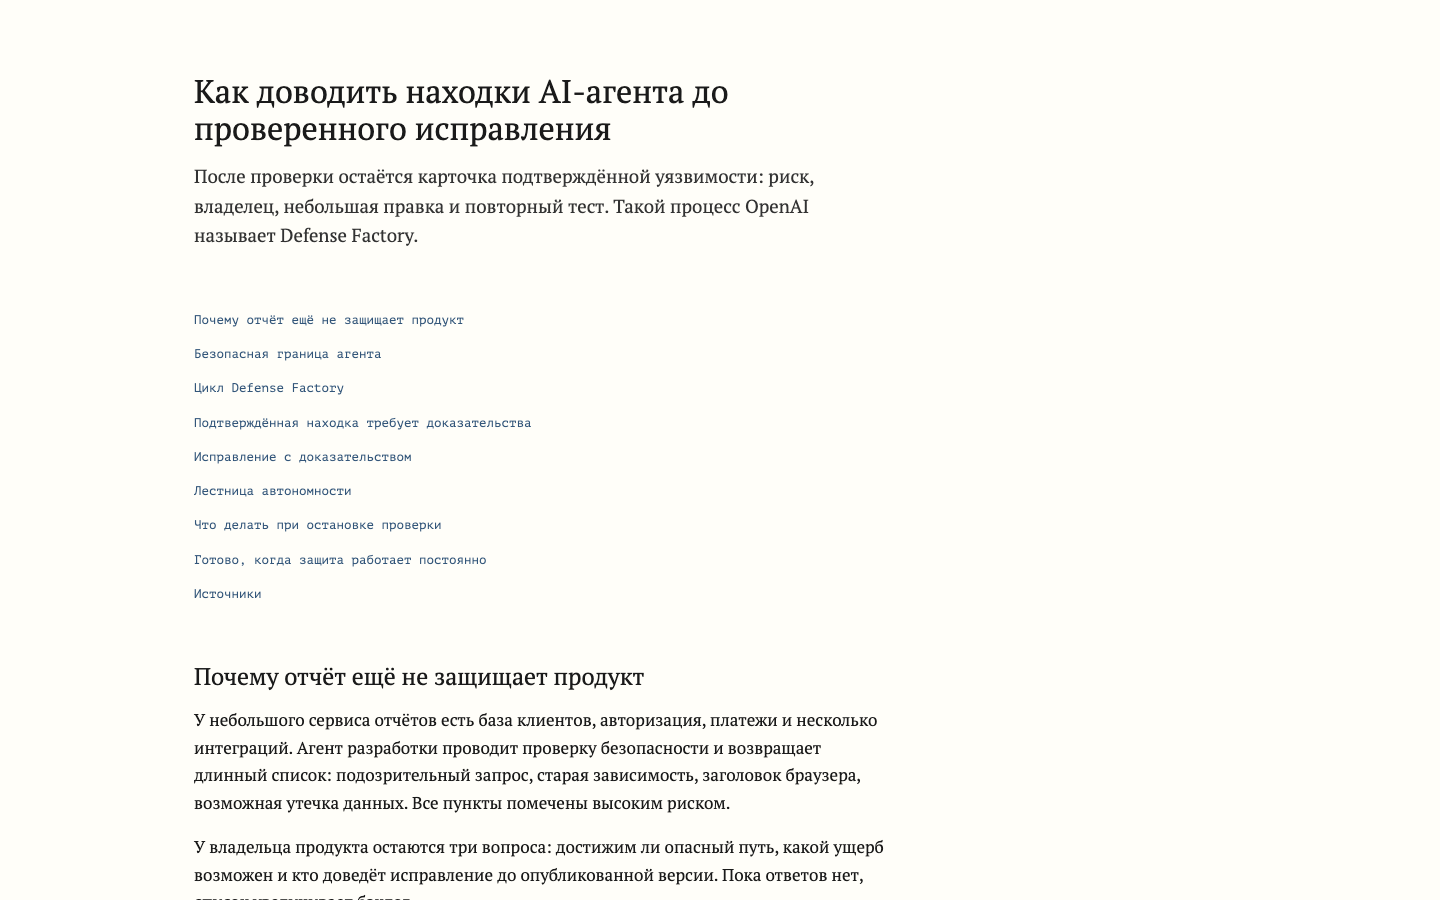
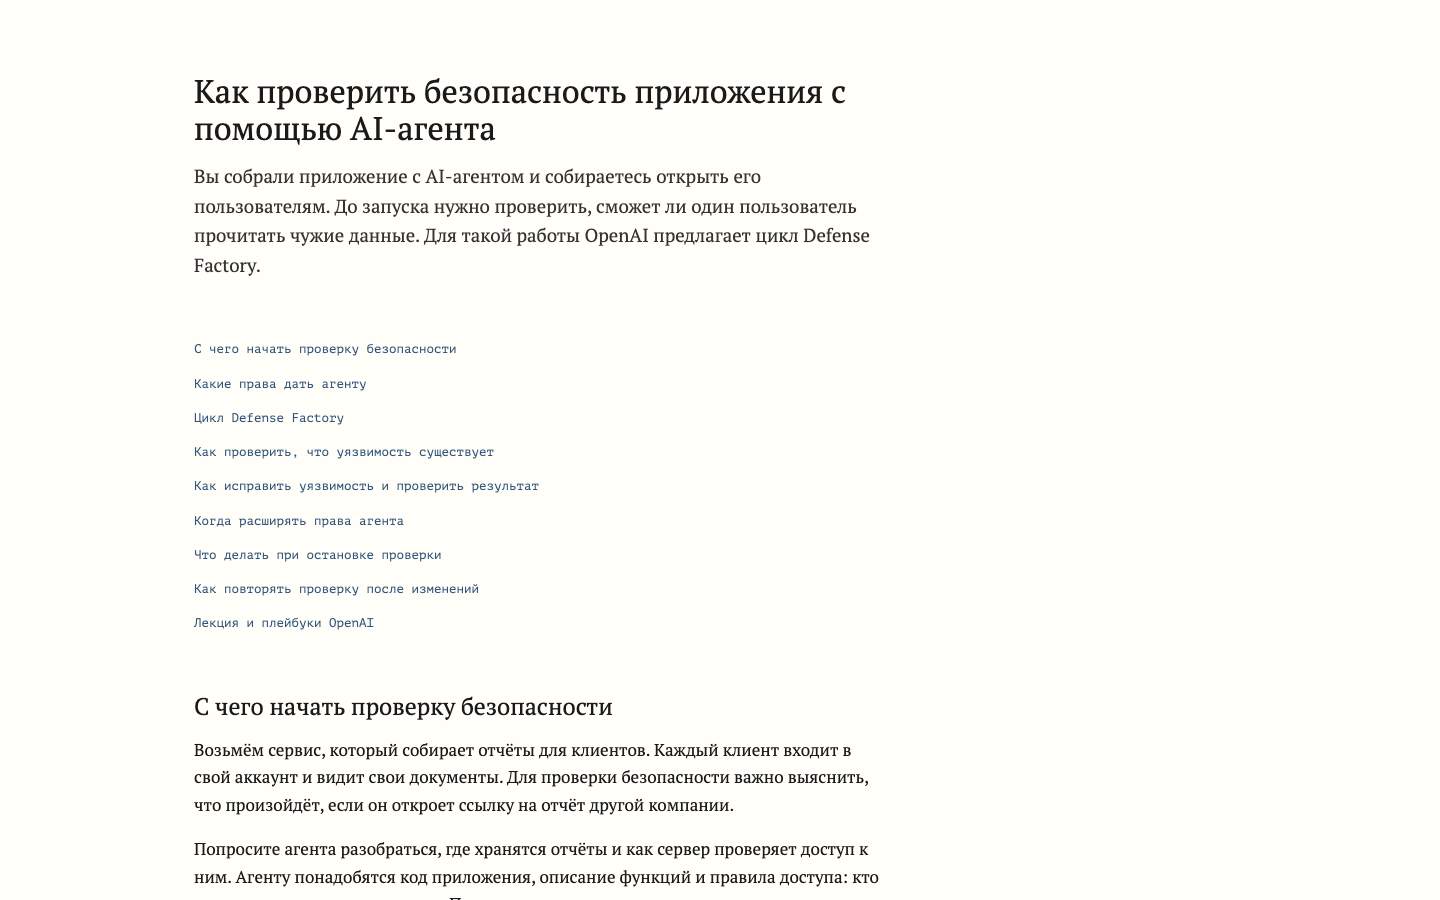
content: explain Defense Factory through an app security check

diff --git a/docs/STATUS.md b/docs/STATUS.md
@@ -255,6 +255,7 @@ curl -s http://127.0.0.1:1313/blog/agent-teams-opus-4-6/ > /dev/null
 | 2026-09-03 | M20 GPT-6 Astra release article | `content/blog/gpt-6-astra.md`, `static/images/blog/gpt-6-astra*`, `static/design-review/gpt-6-astra-*`, `layouts/blog/paper.html`, `layouts/_default/baseof.html`, `README.md`, `docs/PLAN.md`, `docs/STATUS.md`; issue `#171` | Grok CLI X research; five deaify critics; fact, persona, and editorial gates; style and structural gates; `hugo --gc --minify`; rendered metadata and media assertions; full SEO helper stack; deterministic 1200 px overlap check; Playwright browser review at 840×480 | pass locally: article contains 12 attributed source images, official OpenAI video, a responsive local Astra game video, direct Day One verdict, FAQ schema, trailing-slash canonical, and corrected media/tag layout rules | publication and post-deploy evidence are tracked in issue `#171` and PR `#172` |
 | 2026-09-03 | M20 Astra access-angle correction | `content/blog/gpt-6-astra.md`, `README.md`, `docs/PLAN.md`, `docs/STATUS.md`; issue `#171`; PR `#173`; merge `3e3f2fde` | five title critics; style and structural gates; Hugo build; full SEO helper stack; Playwright local and production review at 840×480 | pass: production title states the Day One access question; previous migration framing is absent; Telegram queue item `171741aa` is scheduled for 2026-09-04 08:00 MSK | monitor production and queued announcement |
 | 2026-09-05 | M21 Defense Factory standalone guide rendering | `content/blog/ai-agent-defense-factory-guide.html`, `docs/blog/ai-agent-defense-factory-guide/preview-*.png`, `docs/PLAN.md`, `docs/STATUS.md` | `hugo --gc --minify`; Playwright direct-file and Hugo review at 1440×900; prompt copy interaction; `git diff --check` | pass: direct `file://` view hides frontmatter, uses the 740 px paper layout, and preserves the A4 prompt sidecar; mobile review skipped by founder request | open visual-review PR |
+| 2026-09-05 | M21 Defense Factory reader-first copy | `content/blog/ai-agent-defense-factory-guide.html`, companion source notes and desktop previews; PR `#176` | editorial audit; Playwright direct-file and Hugo review at 1440×900; title and TOC consistency; source-link placement; Hugo build; `git diff --check` | pass: opening addresses an app security check before launch, the two-account example explains the workflow, lecture timestamps are absent, six source links are in the final section; mobile review skipped by founder request | update PR `#176` for author review |
 
 ## Blocker log
 

diff --git a/docs/blog/ai-agent-defense-factory-guide/README.md b/docs/blog/ai-agent-defense-factory-guide/README.md
@@ -4,23 +4,23 @@ Companion source record for `content/blog/ai-agent-defense-factory-guide.html`.
 
 ## Prompt 1
 
-*Источник: авторская операционализация для этого гайда по Defense Factory и Codex Security; в потоках пока не обкатан.*
+*Источник: составлен по материалам OpenAI; в потоках пока не обкатан.*
 
 ## Prompt 2
 
-*Источник: авторская операционализация для этого гайда по Defense Factory и Codex Security; в потоках пока не обкатан.*
+*Источник: составлен по материалам OpenAI; в потоках пока не обкатан.*
 
 ## Prompt 3
 
-*Источник: авторская операционализация для этого гайда по Defense Factory и Codex Security; в потоках пока не обкатан.*
+*Источник: составлен по материалам OpenAI; в потоках пока не обкатан.*
 
 ## Prompt 4
 
-*Источник: авторская операционализация для этого гайда по Defense Factory и Codex Security; в потоках пока не обкатан.*
+*Источник: составлен по материалам OpenAI; в потоках пока не обкатан.*
 
 ## Prompt 5
 
-*Источник: авторская операционализация для этого гайда по Defense Factory и Codex Security; в потоках пока не обкатан.*
+*Источник: составлен по материалам OpenAI; в потоках пока не обкатан.*
 
 ## Primary sources
 

diff --git a/docs/PLAN.md b/docs/PLAN.md
@@ -1099,9 +1099,12 @@ Make the Defense Factory guide open directly from its HTML source with the same 
 - [x] Hide Hugo frontmatter during direct `file://` viewing.
 - [x] Preserve the A4 prompt sidecar and copy interaction in direct viewing.
 - [x] Verify direct-file and Hugo rendering at 1440×900.
+- [x] Rewrite the opening around checking an app before launch and explain the report-access example in plain Russian.
+- [x] Remove lecture timestamps and collect the lecture and playbook links in the final section.
 
 ### Definition of done
 
 - Direct opening shows the H1 first, uses the paper palette and keeps the reading column at 740 px.
 - Five prompt cards start collapsed and the copy control works through `file://`.
 - Hugo renders the same article with one H1 and no horizontal page overflow at 1440 px.
+- H1, page title and metadata describe the reader's security-check task; the body explains the workflow without inline source links or lecture timestamps.
